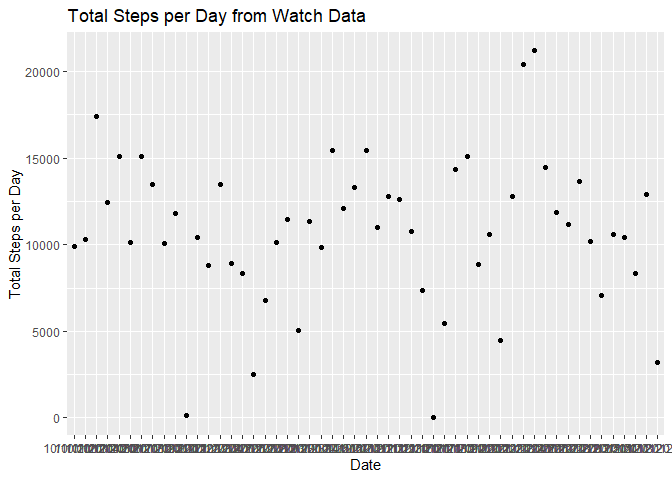
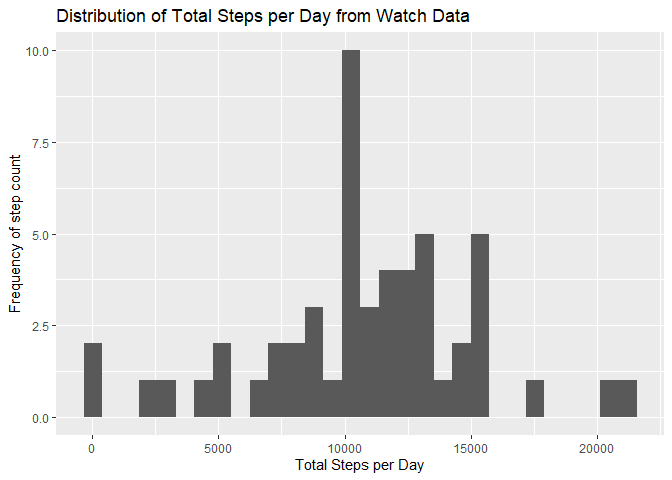
fixed figure one, figure two still fine. on to question three

diff --git a/PA1_template.html b/PA1_template.html
@@ -405,11 +405,12 @@ str(activity)</code></pre>
      newstepmedian &lt;- median(newstep$steps)
      
      #plot
-     ggplot(data = newstep) + geom_point(mapping= aes(x = date, y = steps)) +
-       labs(title = &quot;Total Steps per Day from Watch Data&quot;) +
-       xlab(&quot;Date&quot;) +
-       ylab(&quot;Total Steps per Day&quot;)</code></pre>
[1 lines of base64/hex data omitted]
+     ggplot(data = newstep, aes(x = steps)) + geom_histogram() +
+       labs(title = &quot;Distribution of Total Steps per Day from Watch Data&quot;) +
+       xlab(&quot;Total Steps per Day&quot;) +
+       ylab(&quot;Frequency of step count&quot;)</code></pre>
+<pre><code>## `stat_bin()` using `bins = 30`. Pick better value `binwidth`.</code></pre>
[1 lines of base64/hex data omitted]
 <pre class="r"><code>     #need to fix x-axis</code></pre>
 <p>Participants walk an average of 10766.1887 daily.</p>
 <p>The median number of steps participants take daily is 10765.</p>

diff --git a/PA1_template.md b/PA1_template.md
@@ -84,10 +84,14 @@ summary(activity)
      newstepmedian <- median(newstep$steps)
      
      #plot
-     ggplot(data = newstep) + geom_point(mapping= aes(x = date, y = steps)) +
-       labs(title = "Total Steps per Day from Watch Data") +
-       xlab("Date") +
-       ylab("Total Steps per Day")
+     ggplot(data = newstep, aes(x = steps)) + geom_histogram() +
+       labs(title = "Distribution of Total Steps per Day from Watch Data") +
+       xlab("Total Steps per Day") +
+       ylab("Frequency of step count")
+```
+
+```
+## `stat_bin()` using `bins = 30`. Pick better value `binwidth`.
 ```
 
 ![](PA1_template_files/figure-html/stepsperday-1.png)<!-- -->
